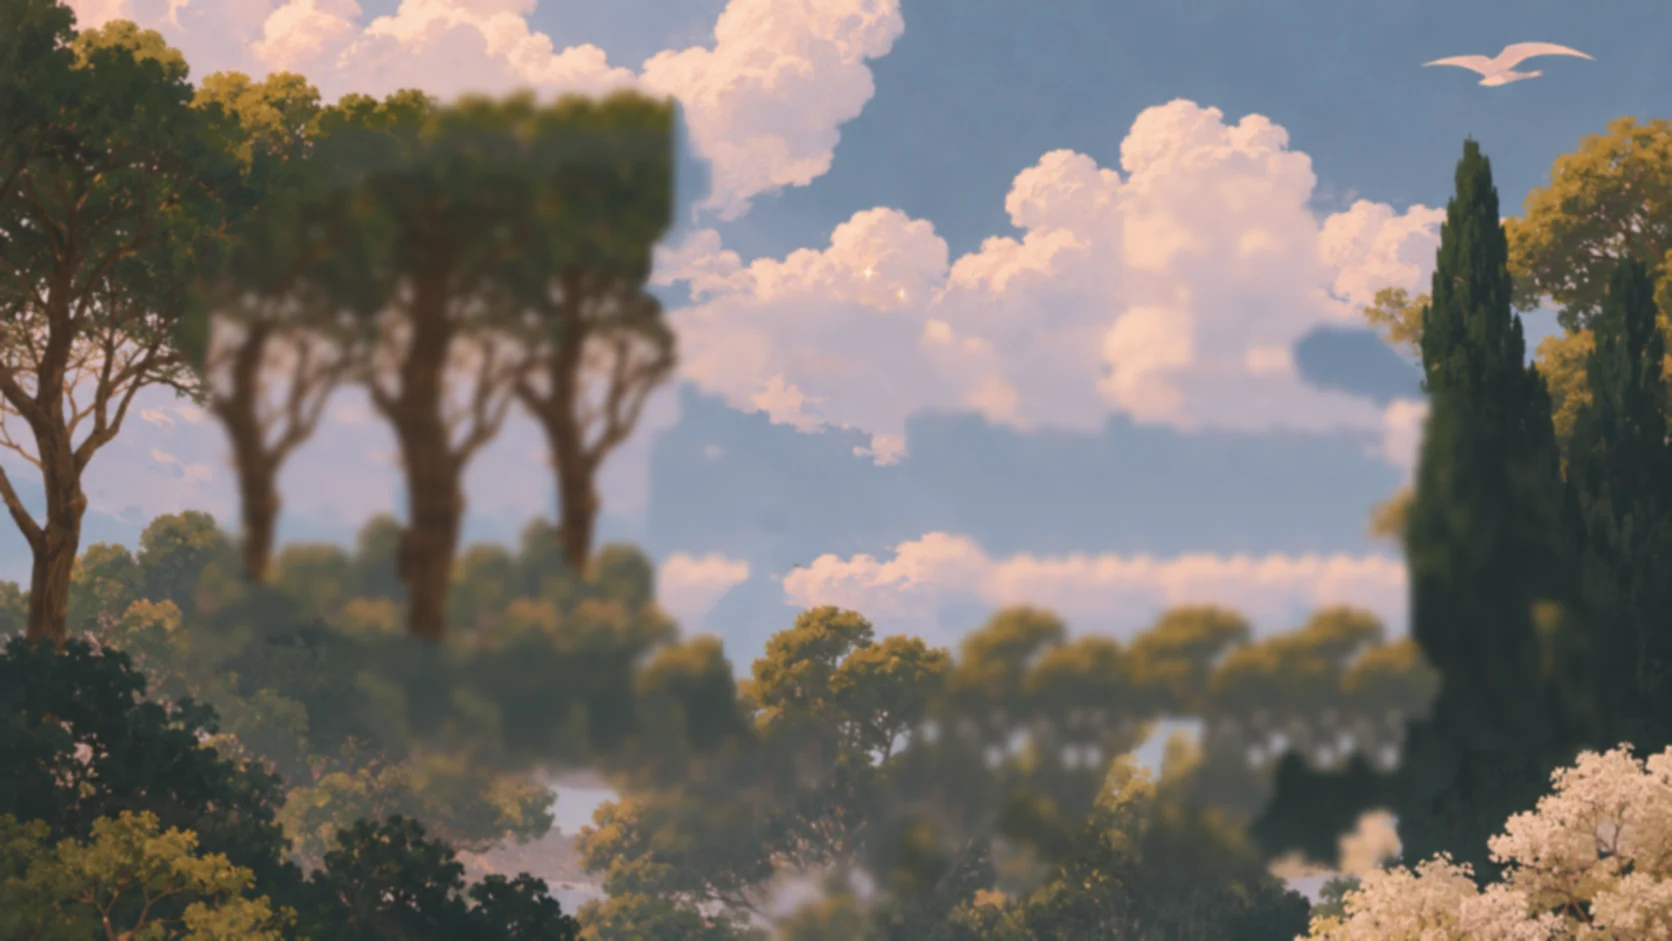
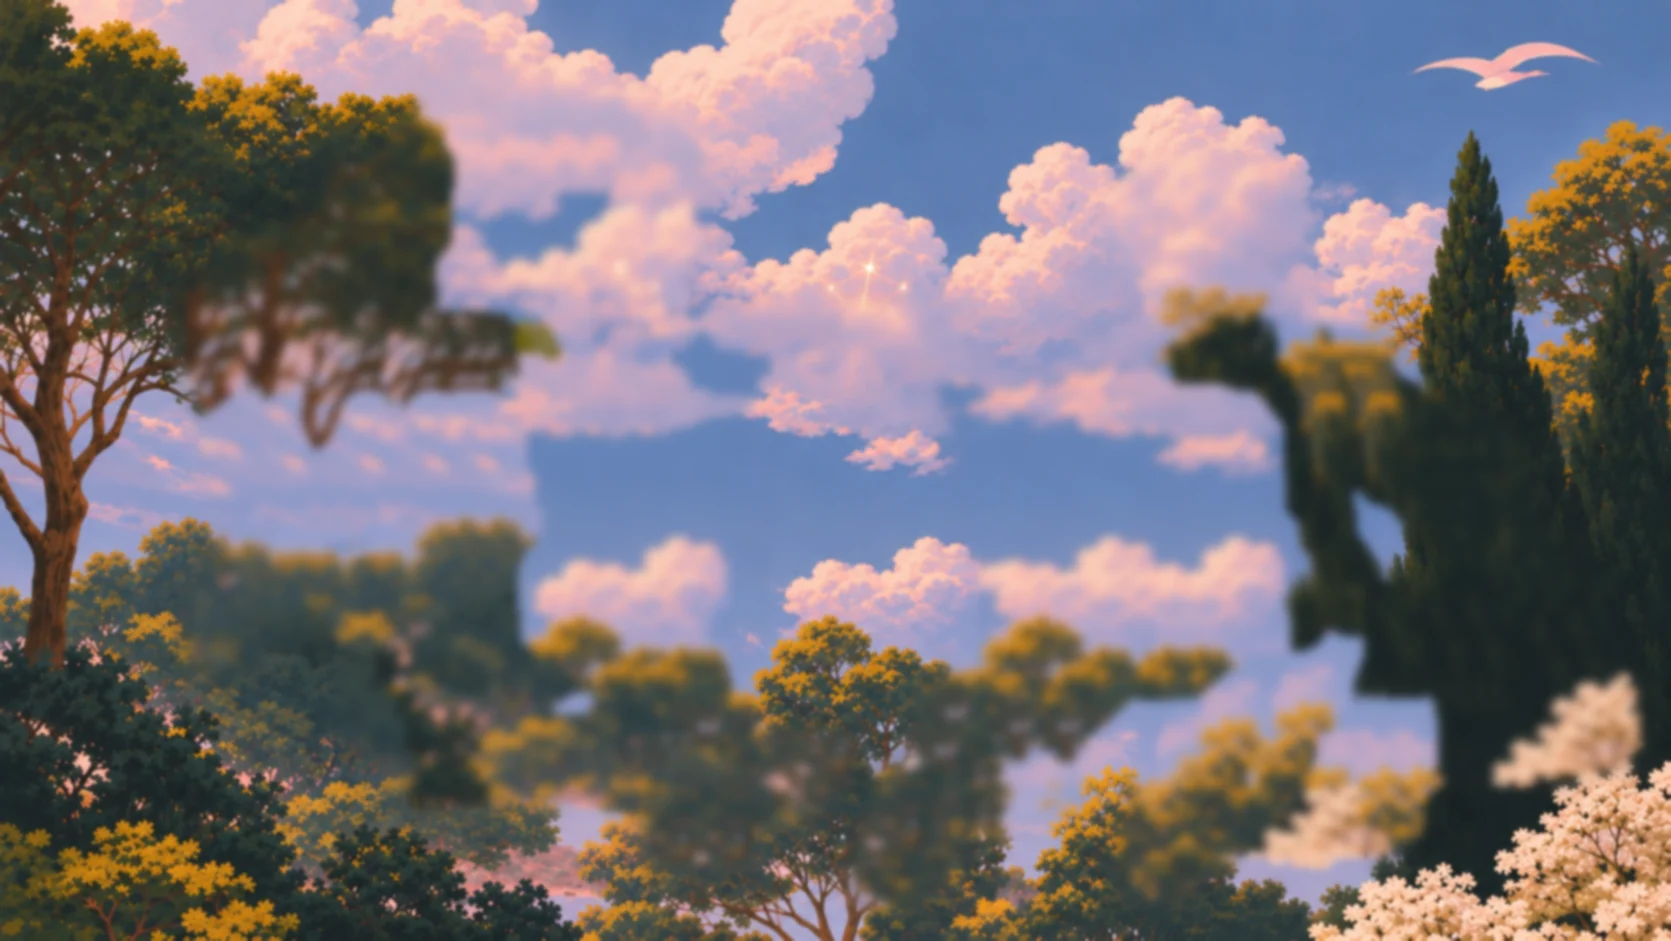
Home opening: ARPIT's final pair of Vibers
Claude-Session: https://claude.ai/code/session_01EqQkYYq3Z3gojt8CnVBeFq

diff --git a/apps/web/features/home/Opening.tsx b/apps/web/features/home/Opening.tsx
@@ -8,14 +8,14 @@ import s from "./opening.module.css";
     Earth, facing Manali, for chapter I */
 const SCENE = "/home/scene.webp";
 const EARTH = "/home/earth.webp";
-/* the two Vibers were cut out of one 1672 x 941 illustration; these are their boxes in it, and the
+/* the two Vibers were cut out of one 1671 x 941 illustration; these are their boxes in it, and the
    point between their fingertips */
-const GIRL = { x: 191, y: 79, w: 667, h: 760 },
-  BOY = { x: 858, y: 181, w: 762, h: 711 },
-  TOUCH = { x: 858, y: 324 },
+const GIRL = { x: 194, y: 80, w: 657, h: 775 },
+  BOY = { x: 864, y: 165, w: 776, h: 728 },
+  TOUCH = { x: 860, y: 322 },
   PAIR_W = BOY.x + BOY.w - GIRL.x,
   PAIR_H = 813,
-  PAIR_MID = 485;
+  PAIR_MID = 487;
 
 /**
  * The opening of Home, scrubbed by scroll on a sticky stage (the contents sit centred over it):

diff --git a/docs/PROGRESS.md b/docs/PROGRESS.md
@@ -472,3 +472,22 @@ ARPIT approved demo v5 (Shopify Editions style contents) and asked for it to be 
   - Unit tests: 95 passed.
   - e2e: everything passes except "API OK" (needs the backend).
   - `club.spec` now allows the second "Vibers like you" heading that chapter V adds.
+
+## Colourful photos, distinct chapter openers, and the final Vibers pair (2026-11-06)
+
+- **Photos:** photographs keep their own colours everywhere. The sage toning is gone from the `.issue` photos, the Discover sphere (`cover()`) and the inbox faces.
+- **Chapter openers:** they draw their picture untoned (`plain()`), with a soft shade at the foot so the title stays readable. Each chapter now has its own picture:
+
+  | Chapter | Picture |
+  | --- | --- |
+  | II Vibers like you | ARPIT's illustration |
+  | III This week | The lantern path by day |
+  | IV Day plans | The meadow |
+  | V Discover | The Earth |
+  | VI Events | The red-moon night |
+  | VII Explore | The illustrated sky |
+
+- **Home opening:** uses ARPIT's final character art. New cut-outs, a new inpainted scene, and new boxes in `Opening.tsx`.
+- **Tests:**
+  - Unit tests: 95 passed.
+  - e2e: passes except "API OK" (needs the backend).
